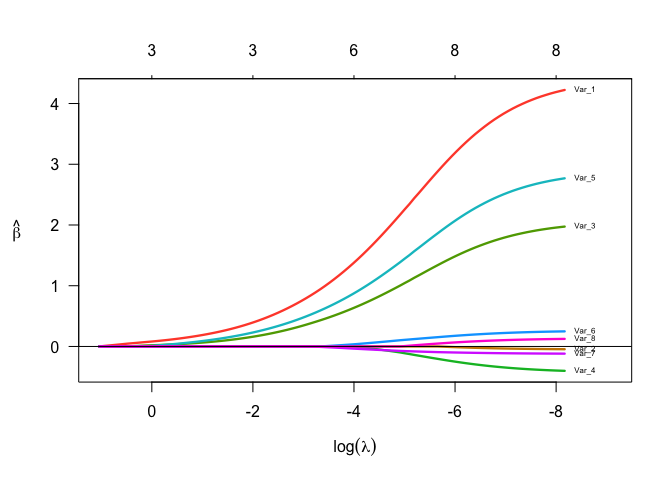
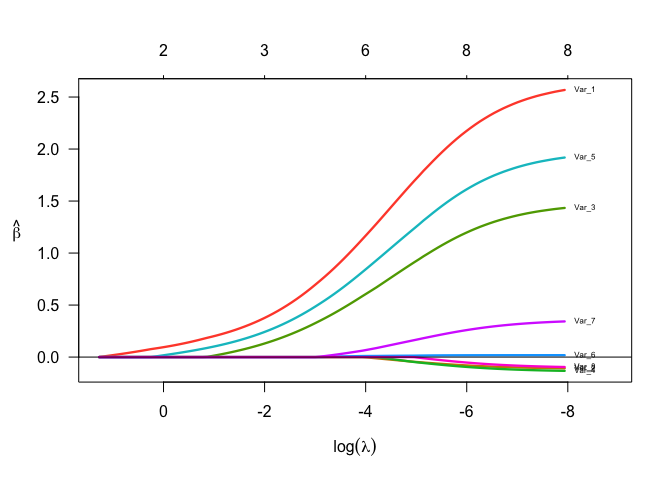
cleanup

diff --git a/README.md b/README.md
@@ -20,8 +20,6 @@ devtools::install_github("yang0117/TVsMiss")
 
 ## Example
 
-This is a basic example which shows you how to solve a common problem:
-
 ``` r
 rm(list = ls())
 library(TVsMiss)
@@ -34,7 +32,7 @@ colnames(xm) <- paste0("Var_",1:p)
 fit02 <- tvsmiss(x=xm,y=y,method = "BIC")
 fit02$selection_beta
 #>     Var_1     Var_2     Var_3     Var_4     Var_5     Var_6     Var_7 
-#> 0.8408172 0.0000000 0.3817307 0.0000000 0.5252874 0.0000000 0.0000000 
+#> 0.6972660 0.0000000 0.3274012 0.0000000 0.4869587 0.0000000 0.0000000 
 #>     Var_8 
 #> 0.0000000
 plot(fit02,x.log=TRUE,label = TRUE)
